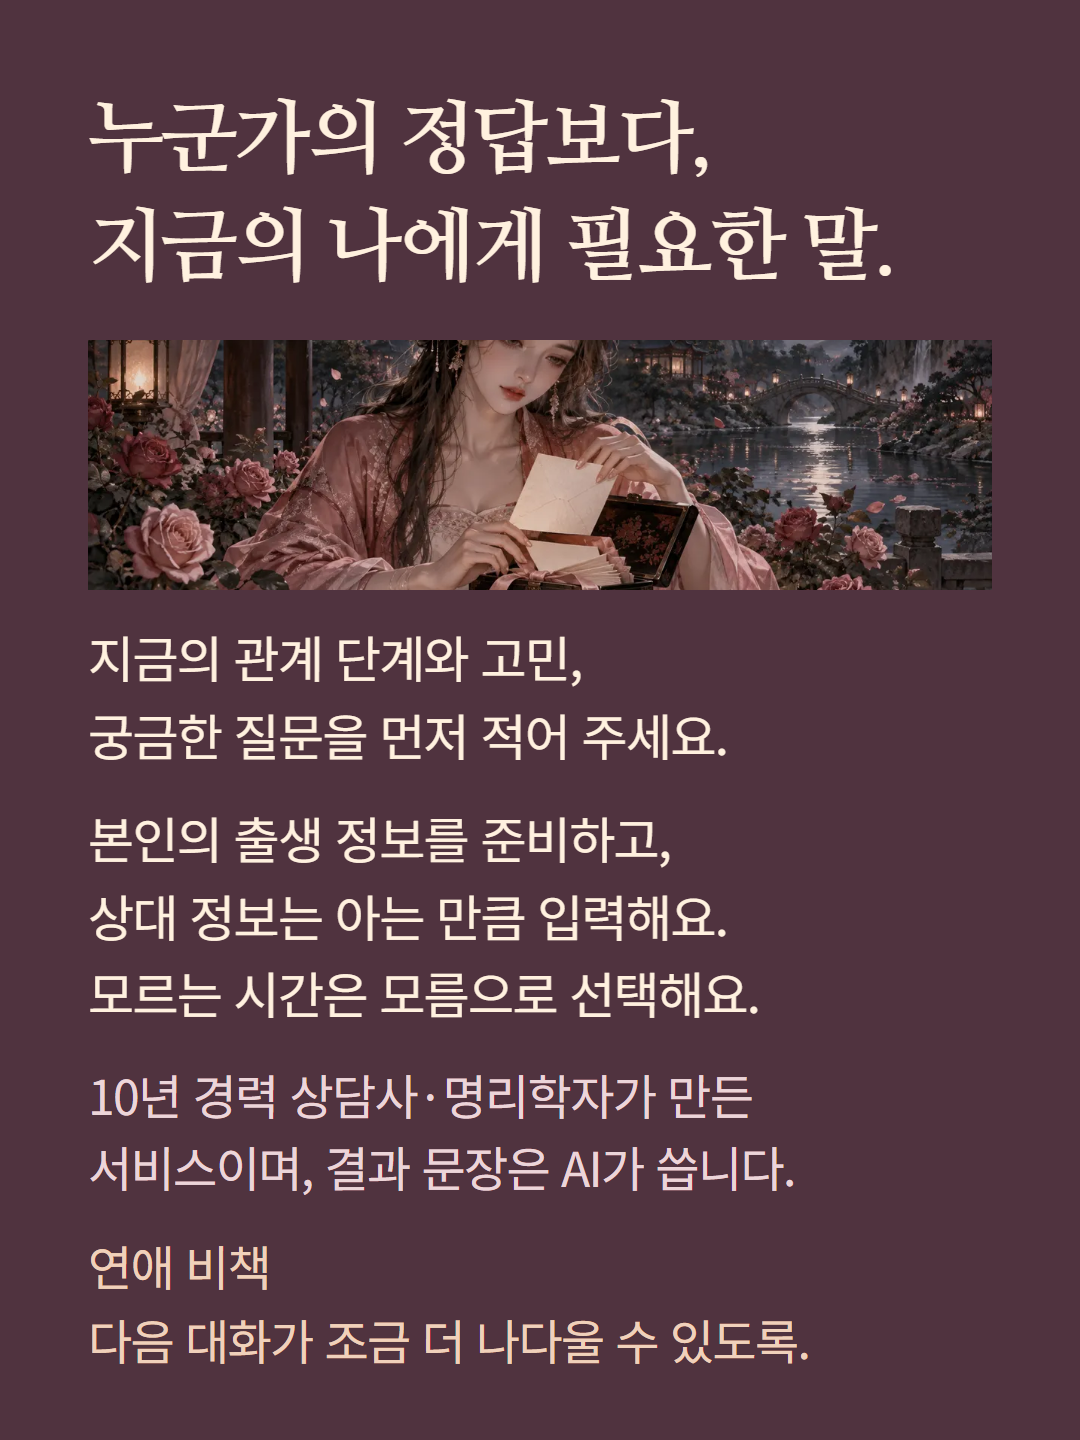
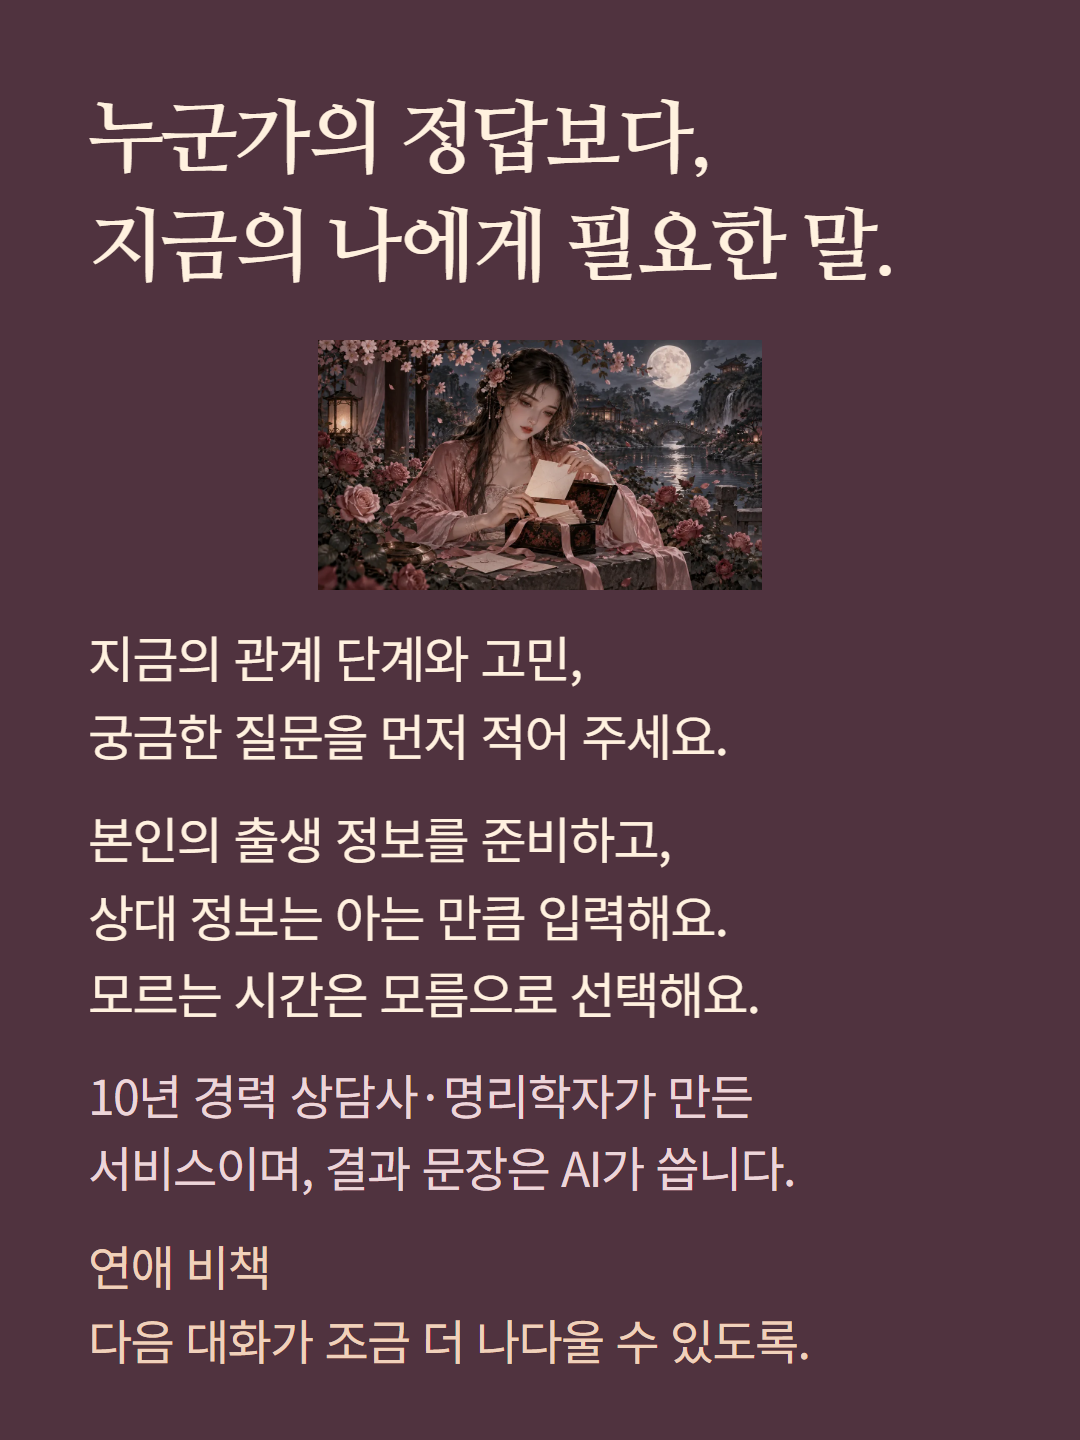
연애 비책 상세 9·10장: 잘리던 삽화를 원본 비율로 다시 렌더

Changed region(s): [[0.0611, 0.2188, 0.9167, 0.4375]]

diff --git a/content/product-details/love-secret/layout.css b/content/product-details/love-secret/layout.css
@@ -1,2 +1,2 @@
-*{box-sizing:border-box}body{margin:0;background:#fbf0e9;color:#573740;font-family:'Yeongnyangi Noto',sans-serif}.panel{width:1080px;height:1440px;position:relative;overflow:hidden;padding:84px 88px;background:#fbf0e9}h1,h2,h3,p{margin:0;word-break:keep-all}h1,h2{font-family:'Yeongnyangi Myeongjo',serif;font-size:80px;line-height:1.35;letter-spacing:-3px;margin-bottom:40px}h3{font-size:48px;line-height:1.45;margin-bottom:12px}p{font-size:50px;line-height:1.55;letter-spacing:-1.6px}.label,.note{font-size:48px;line-height:1.5;color:#785765}.label{margin-bottom:32px}.note{margin-top:24px}.p1,.p10{background:#50333f;color:#fff1df}.hero{display:block;width:904px;height:510px;object-fit:cover;margin:30px 0}.sign{color:#f0d1bb;font-size:48px;margin-top:28px}.p2 blockquote{font-family:'Yeongnyangi Myeongjo',serif;font-size:62px;line-height:1.5;margin:32px 0 40px;padding:24px 0;border-block:1px solid #bf9b98}.route section{padding:20px 0;border-bottom:1px solid #ceb2a7}.route p{font-size:48px}ol{padding-left:80px;margin:28px 0 36px}li{font-size:50px;line-height:1.45;letter-spacing:-1.8px;padding:18px 0;border-bottom:1px solid #ceb2a7;word-break:keep-all}.compact li{font-size:48px;padding:12px 0}.contents{padding:0;list-style:none;margin:36px 0}.contents li{padding:16px 0}.boundary{padding:26px 0;border-block:1px solid #bf9b98}.boundary p{font-size:48px}.protect section{padding:18px 0;border-top:1px solid #ceb2a7}.protect p{font-size:48px}.p5{background:#efe0d9}.timeline{padding-left:28px;border-left:1px solid #a47b83;margin:36px 0}.timeline p{font-size:48px;padding:16px 0}.p7 li span{font-size:48px;color:#785765}.message{background:#efdcd5;padding:38px 36px;margin:36px 0}.message p{font-family:'Yeongnyangi Myeongjo',serif;font-size:54px}.after{padding:20px 0;border-bottom:1px solid #ceb2a7}.after p{font-size:48px}.reading section{padding:12px 0;border-top:1px solid #ceb2a7}.reading p{font-size:48px}.scene{display:block;width:904px;height:200px;object-fit:cover;margin:26px 0}.closing-scene{display:block;width:904px;height:250px;object-fit:cover;margin:28px 0}.p10 p+p{margin-top:26px}.p10 .note{color:#ecd5d9}
+*{box-sizing:border-box}body{margin:0;background:#fbf0e9;color:#573740;font-family:'Yeongnyangi Noto',sans-serif}.panel{width:1080px;height:1440px;position:relative;overflow:hidden;padding:84px 88px;background:#fbf0e9}h1,h2,h3,p{margin:0;word-break:keep-all}h1,h2{font-family:'Yeongnyangi Myeongjo',serif;font-size:80px;line-height:1.35;letter-spacing:-3px;margin-bottom:40px}h3{font-size:48px;line-height:1.45;margin-bottom:12px}p{font-size:50px;line-height:1.55;letter-spacing:-1.6px}.label,.note{font-size:48px;line-height:1.5;color:#785765}.label{margin-bottom:32px}.note{margin-top:24px}.p1,.p10{background:#50333f;color:#fff1df}.hero{display:block;width:904px;height:510px;object-fit:cover;margin:30px 0}.sign{color:#f0d1bb;font-size:48px;margin-top:28px}.p2 blockquote{font-family:'Yeongnyangi Myeongjo',serif;font-size:62px;line-height:1.5;margin:32px 0 40px;padding:24px 0;border-block:1px solid #bf9b98}.route section{padding:20px 0;border-bottom:1px solid #ceb2a7}.route p{font-size:48px}ol{padding-left:80px;margin:28px 0 36px}li{font-size:50px;line-height:1.45;letter-spacing:-1.8px;padding:18px 0;border-bottom:1px solid #ceb2a7;word-break:keep-all}.compact li{font-size:48px;padding:12px 0}.contents{padding:0;list-style:none;margin:36px 0}.contents li{padding:16px 0}.boundary{padding:26px 0;border-block:1px solid #bf9b98}.boundary p{font-size:48px}.protect section{padding:18px 0;border-top:1px solid #ceb2a7}.protect p{font-size:48px}.p5{background:#efe0d9}.timeline{padding-left:28px;border-left:1px solid #a47b83;margin:36px 0}.timeline p{font-size:48px;padding:16px 0}.p7 li span{font-size:48px;color:#785765}.message{background:#efdcd5;padding:38px 36px;margin:36px 0}.message p{font-family:'Yeongnyangi Myeongjo',serif;font-size:54px}.after{padding:20px 0;border-bottom:1px solid #ceb2a7}.after p{font-size:48px}.reading section{padding:12px 0;border-top:1px solid #ceb2a7}.reading p{font-size:48px}.scene{display:block;width:auto;max-width:904px;height:200px;margin:26px auto}.closing-scene{display:block;width:auto;max-width:904px;height:250px;margin:28px auto}.p10 p+p{margin-top:26px}.p10 .note{color:#ecd5d9}
 .message.excerpt{padding:26px 36px;margin:20px 0}.excerpt h3{margin-bottom:6px}.excerpt .gap{line-height:1.1;margin:6px 0}
